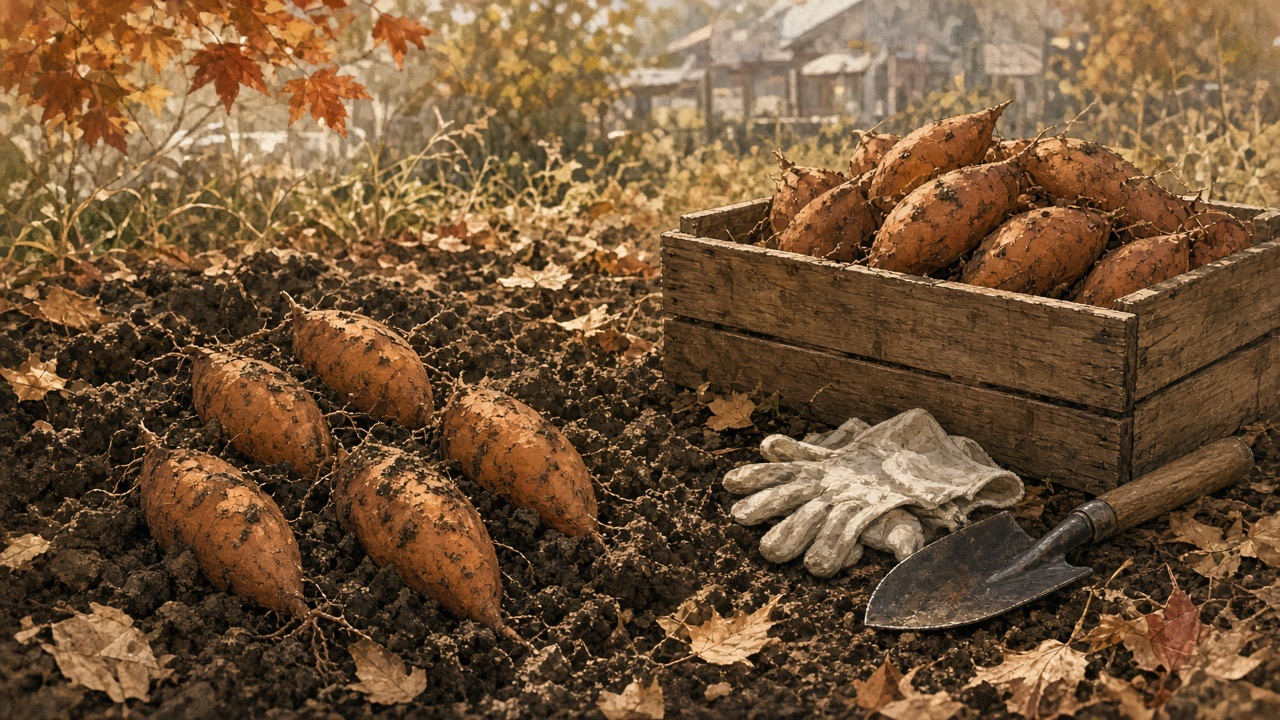
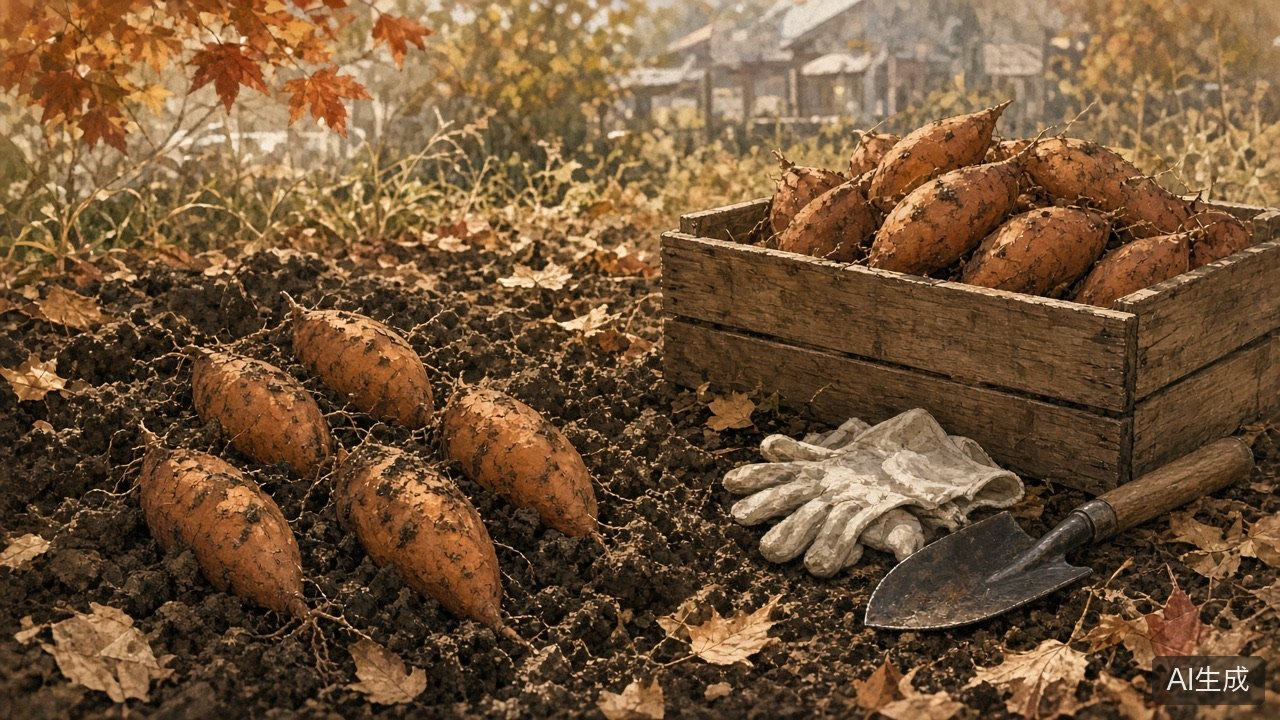
fix: AI生成の開示を画像内の短い透かしにする
本文の長い注記をやめ、vol-1画像の右下に「AI生成」を焼き込む。
運用ルールと draft-prompt も透かし方式に合わせる。

Changed region(s): [[0.875, 0.8861, 1.0, 0.9778]]

diff --git a/docs/ai-generated-images.md b/docs/ai-generated-images.md
@@ -23,7 +23,7 @@
 | 1 | **入力はトピック文のみ** | 生成プロンプトに広報 PDF 画像・抽出 JPEG・スキャンを渡さない。参照画像としても使わない。「〇〇広報の写真に似せて」も禁止 |
 | 2 | **実在の識別可能な人物の写実を避ける** | 顔が判別できる写実ポートレート、特定個人に寄せた顔、子どもの顔の写実は出さない。人が出る場合は後ろ姿・シルエット・ぼかし・イラスト化。施設・風景・物・雰囲気を優先 |
 | 3 | **モデル／サービスの利用規約に従う** | 商用・編集利用が許されるツール／プランだけ使う。禁止用途・第三者商標の乱用・なりすましをしない。API キーはリポジトリに書かない |
-| 4 | **必要なら生成である旨を記事で開示** | ピックアップ直下など、読者が写真と誤解しうる位置では短い注記を付ける（例: 「トピック文をもとに AI が生成したイラストです」） |
+| 4 | **生成である旨を画像内で短く開示** | 本文に長い注記は書かない。画像の四隅（右下または左下）に短い透かし（既定: `AI生成`）を焼き込む。alt にも「AI生成」を含めてよい |
 | 5 | **公開前に人間が確認する** | 新規号は Frontmatter **`draft: true`**。ファクト・固有名詞・画像の違和感を確認してから `draft` を外す |
 
 ---
@@ -34,8 +34,8 @@
 | :--- | :--- |
 | ディレクトリ | `public/images/generated/vol-N/` |
 | ファイル名 | 短く内容が分かる英数字ケバブ（例: `mitane-kohoku-gakushu.pptx` ではなく `mitane-kohoku-stage.png`） |
-| Markdown | `![短い説明（AI生成）](/images/generated/vol-N/….png)` |
-| 注記 | 画像の直後に 1 行（本文または小さな注）で生成開示 |
+| Markdown | `![短い説明（AI生成）](/images/generated/vol-N/….jpg)` |
+| 開示 | **画像内透かし**（右下／左下）。文言は短く（例: `AI生成`）。本文の長い注記は置かない |
 
 広報抽出用の `public/images/kouhou/` とは別系統です。混在させないでください。
 
@@ -48,7 +48,7 @@
 3. 利用可能な生成手段で画像を作り、`public/images/generated/vol-N/` に置く  
    - 当面の例: Cursor の画像生成など、手元で使える手段  
    - 外部画像 API のキーが無い場合は無理に追加しない（秘密を捏造しない）
-4. 記事に埋め込み＋開示注記。号は **`draft: true`** のまま人間レビューへ
+4. 画像に短い透かし（`AI生成`）を入れてから記事へ埋め込む。号は **`draft: true`** のまま人間レビューへ
 
 チェックリスト表示: `npm run draft -- --vol N --date YYYY-MM-DD`（正本は `scripts/draft-prompt.md`）。
 
@@ -59,6 +59,7 @@
 - 広報 PDF／抽出画像を生成の入力・参照・「似せる」指示に使うこと
 - 実在人物の写実ポートレートや、子ども・顔が判別できる写実を記事ヒーローにすること
 - 生成画像を「広報写真」「取材写真」と誤認させるキャプション
+- 本文に長い生成注記を重ねること（開示は画像内の短い透かしが正）
 - `draft: true` のまま本番公開扱いすること（フラグ解除は人間の明示操作）
 
 ---
@@ -66,4 +67,4 @@
 ## ライセンス上の扱い
 
 なべっこ地の文は [LICENSE-CONTENT.md](../LICENSE-CONTENT.md) のとおり CC BY 4.0 です。  
-**AI 生成画像**はモデル／サービス規約と運営判断に従い、CC BY の「なべっこ執筆テキスト」とは別に扱います（第三者権利・利用条件が異なるため）。記事では出典ブロックに広報の出典を書き、生成画像側は開示注記で区別します。
+**AI 生成画像**はモデル／サービス規約と運営判断に従い、CC BY の「なべっこ執筆テキスト」とは別に扱います（第三者権利・利用条件が異なるため）。記事では出典ブロックに広報の出典を書き、生成画像側は画像内の短い透かし（と必要なら alt）で区別します。

diff --git a/scripts/draft-prompt.md b/scripts/draft-prompt.md
@@ -133,7 +133,7 @@ Heading map (locked):
 - **Select 1–3** from candidates; **remove** them from 直近のイベント情報 and 今週のあきた (no duplicate)
 - **Baseline criteria:** (a) eye-catching title, (b) interesting topic
 - Local extract photos may inform selection only — **do not embed** and **do not** feed them to image generators
-- **AI visuals (locked):** for each pickup, generate an image from **topic text only** per [`docs/ai-generated-images.md`](../docs/ai-generated-images.md). Save under `public/images/generated/vol-N/`. Embed with alt that marks AI generation; add a short disclosure line when readers might mistake it for a news photo. No realistic identifiable people (blur / silhouette / still-life / place). Follow the image tool’s commercial/editorial ToS. Keep `draft: true` for human review
+- **AI visuals (locked):** for each pickup, generate an image from **topic text only** per [`docs/ai-generated-images.md`](../docs/ai-generated-images.md). Save under `public/images/generated/vol-N/`. Burn a short corner watermark (`AI生成`, bottom-right or bottom-left). Alt may say AI生成. Do **not** add a long prose disclosure under the image. No realistic identifiable people. Follow the image tool’s commercial/editorial ToS. Keep `draft: true` for human review
 - Body: media 読み物 and ですます. Full citation. **10+ lines** of prose (no 広報写真). Not a PR digest.
 
 #### `## 直近のイベント情報` (locked)
@@ -204,7 +204,7 @@ Heading map (locked):
 - Do not invent dates, places, or fees — omit if unclear
 - **出典は省略しない** — full citation every time; no 「同上」「同」「前掲」
 - **Do not embed 広報 extract photos.** Never link `data/`. Do not commit under `public/images/kouhou/`. Never use them as AI reference input
-- **AI pickup images:** topic text only. No realistic identifiable people. Use ToS-compliant tooling. Disclose generation in-article when needed. Files go under `public/images/generated/vol-N/`. Full rules: `docs/ai-generated-images.md`
+- **AI pickup images:** topic text only. No realistic identifiable people. Use ToS-compliant tooling. Short corner watermark (`AI生成`); no long body note. Files under `public/images/generated/vol-N/`. Full rules: `docs/ai-generated-images.md`
 - New issues ship with **`draft: true`**; clear the flag only when intentionally publishing
 - **ピックアップ:** first `#`, later `##`; no umbrella ピックアップ heading
 - Same: 10+ lines of readable prose. Remove selected topics from the other two sections. Embed AI images (not 広報 photos) when a visual is needed

diff --git a/POLICY.md b/POLICY.md
@@ -28,7 +28,7 @@
 - 要約・リライトにAIを用いるが、**丸写しはしない**
 - 本文の基本文体は**ですます調**とする
 - 広報PDFから抽出した画像は記事へ埋め込まない・リポジトリに置かない（手順は `scripts/draft-prompt.md`）
-- ピックアップ等の代替ビジュアルには **AI 生成画像**を使ってよい。入力はトピック文のみ（広報 PDF 画像は参照しない）。実在の識別可能な人物の写実は避ける。利用する画像モデル／サービスの商用・編集利用の規約に従う。読者が写真と誤解しうる場合は記事で生成である旨を開示する。詳細は [`docs/ai-generated-images.md`](./docs/ai-generated-images.md)
+- ピックアップ等の代替ビジュアルには **AI 生成画像**を使ってよい。入力はトピック文のみ（広報 PDF 画像は参照しない）。実在の識別可能な人物の写実は避ける。利用する画像モデル／サービスの商用・編集利用の規約に従う。生成である旨は画像内の短い透かし（例: `AI生成`）で開示する。詳細は [`docs/ai-generated-images.md`](./docs/ai-generated-images.md)
 - 確認中の号は Frontmatter `draft: true` とし、本番ビルドに出さない（公開手順は `docs/pipeline.md`）
 - 公開前に運営者がファクトチェックする（AI出力のまま自動公開しない）
 - AIが誤りやすい固有名詞・日時・場所は特に人間確認する

diff --git a/src/content/posts/vol-1.md b/src/content/posts/vol-1.md
@@ -16,8 +16,6 @@ draft: true
 
 ![秋の体育館ステージと太鼓（AI生成）](/images/generated/vol-1/mitane-kohoku-stage.jpg)
 
-*この画像はトピック文をもとに AI が生成したイラストです（実在の人物・場面の写真ではありません）。*
-
 > 出典: 三種町「広報みたね」2026年11月号 No.248（湖北小学校 学習発表会）  
 > https://www.town.mitane.akita.jp/soshikikarasagasu/kikakuseisakuka/2/1/2074.html
 
@@ -30,8 +28,6 @@ draft: true
 義務教育学校の稲刈り体験では、5月に植えた稲を刈り取り、12月の収穫感謝祭でだまこ鍋にする予定です。食卓に届くまでの道のりが、子どもたちの手元から見える季節です。土から顔を出した芋は、そんな井川の秋を象徴する光景です。
 
 ![秋のサツマイモ収穫（AI生成）](/images/generated/vol-1/ikawa-imo-harvest.jpg)
-
-*この画像はトピック文をもとに AI が生成したイラストです（実在の人物・場面の写真ではありません）。*
 
 > 出典: 井川町「広報いかわ」2026年11月号 Vol.840（表紙・収穫感謝祭）  
 > https://www.town.ikawa.akita.jp/site/koho/4133.html

diff --git a/docs/pipeline.md b/docs/pipeline.md
@@ -68,7 +68,7 @@ Step C と記事では、次のとおり扱います。
 
 - 正本: [`docs/ai-generated-images.md`](./ai-generated-images.md)
 - 出力先: `public/images/generated/vol-N/`
-- 入力はトピック文のみ／実在人物の写実を避ける／モデル規約に従う／必要なら記事で生成開示／`draft: true` のまま人間確認
+- 入力はトピック文のみ／実在人物の写実を避ける／モデル規約に従う／画像内の短い透かし（`AI生成`）で開示／`draft: true` のまま人間確認
 - 外部画像 API のキーが無い環境では、手元で使える生成手段（例: Cursor の画像生成）に留める。秘密は捏造しない
 
 ## municipalities.yaml（抜粋）

diff --git a/scripts/prose-review-prompt.md b/scripts/prose-review-prompt.md
@@ -61,7 +61,7 @@ npm run prose-review -- src/content/posts/vol-N.md
 - [ ] 広報抽出写真を埋め込んでいない（権利確認前。`data/` 直リンクもなし）
 - [ ] Frontmatter に確認中なら `draft: true` がある
 - [ ] 広報抽出写真（`/images/kouhou/`）を埋め込んでいない
-- [ ] AI 生成画像なら `public/images/generated/` 配下で、必要なら生成開示がある（実在人物の写実がない）
+- [ ] AI 生成画像なら `public/images/generated/` 配下。開示は画像内の短い透かし（長い本文注記は置かない）。実在人物の写実がない
 
 ### F. 直し方
 
